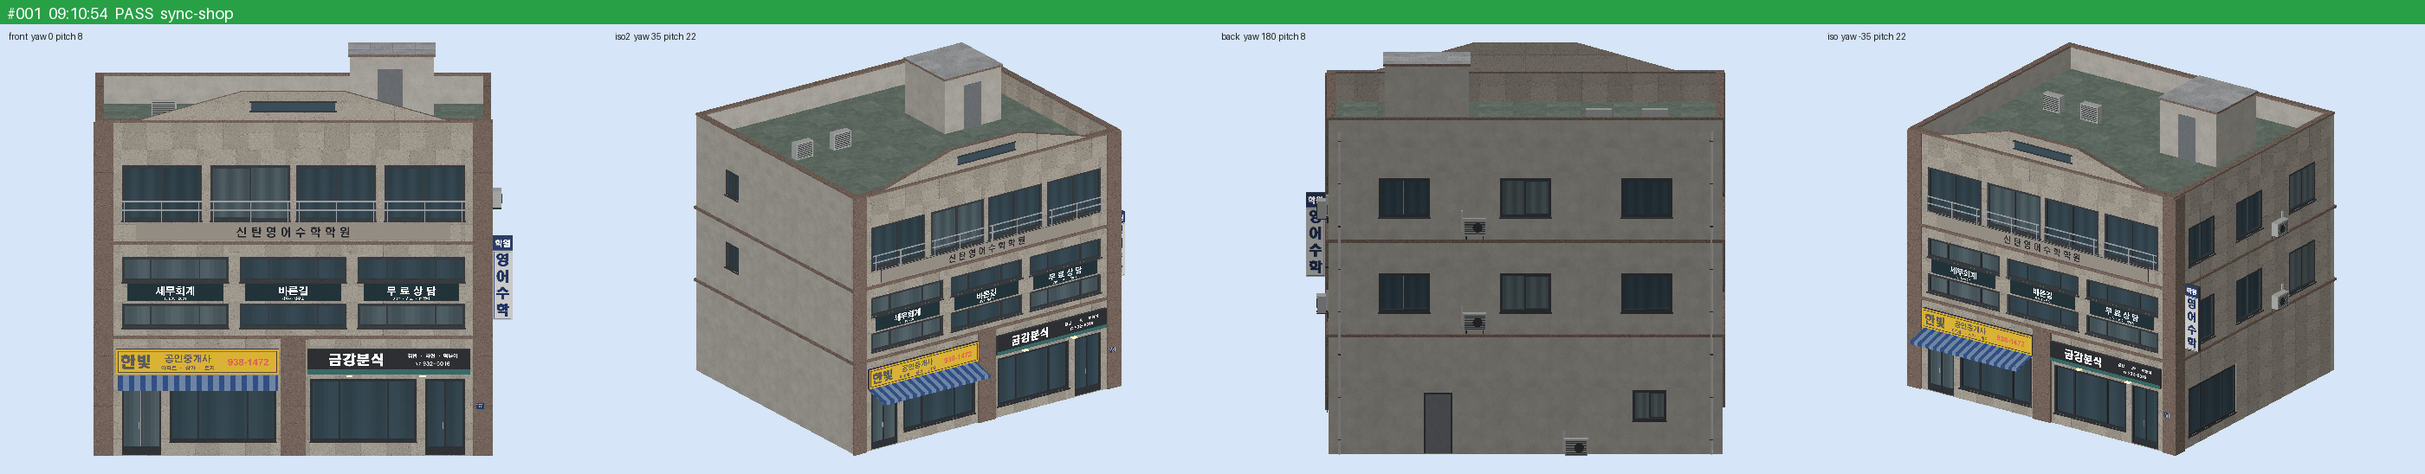
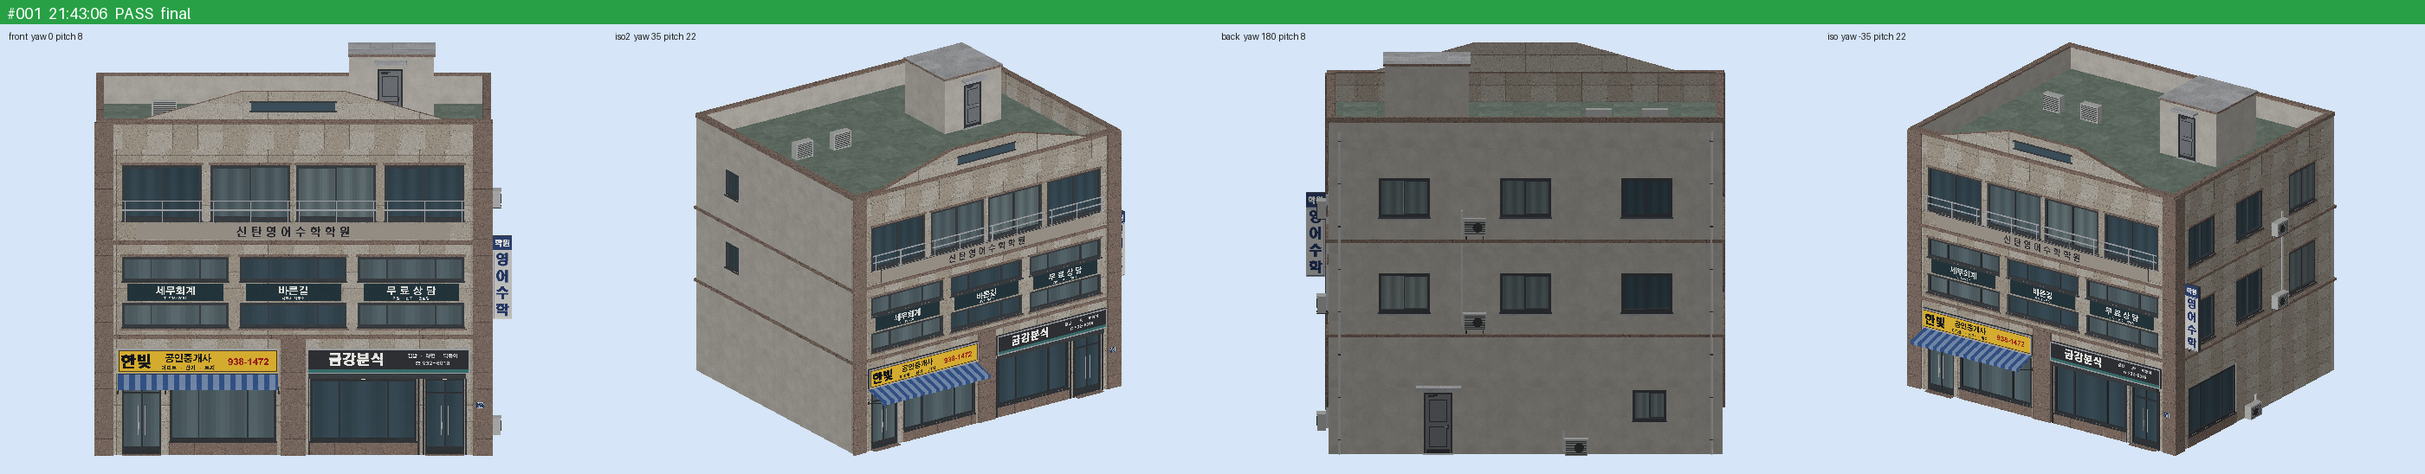
근린상가 01 인게임 피드백 수정: 과발광 하향·디테일·문 보강
- 간판 0.9→0.22, 세로 간판 0.85→0.20, 조명 1.0→0.28, 창 ×0.55 (노란 간판은 바탕만 발광)
- 석재 줄눈·판별 톤/광택 편차 강화
- 셔터 박스·가이드 레일·걸레받이·간판 테·차양 팔, 창대·인방·코핑 띠, 실외기 냉매관
- 유리문 손잡이·가로대, 후면 계단실 철문·차양, 옥탑 철문·차양
- main 12,860 / LOD1 3,910 / LOD2 154(+창102), final·review PASS, 겹침 면·알베도 경고 0

diff --git a/cs2-kit/projects/korean-neighborhood-shop/shop_core.py b/cs2-kit/projects/korean-neighborhood-shop/shop_core.py
@@ -57,6 +57,12 @@ SIGNS = [
 ]
 SIGN_STRIP_H = 1024
 
+# 2026-11-24 인게임: 간판·조명이 블룸으로 하얗게 날아감 -> 발광 배율 대폭 하향 (게임 블룸 기준 노브)
+EMIS_SIGN = 0.22    # 간판 글자 (이전 0.90). 바탕 발광은 이 배율의 약 1/3
+EMIS_VSIGN = 0.20   # 세로 돌출 간판 (이전 0.85)
+EMIS_LAMP = 0.28    # 처마 다운라이트·옥탑등 (이전 1.00)
+EMIS_WIN = 0.55     # 창 실내등 (DC 창 0.58~0.86 -> 0.32~0.47)
+
 
 # ---------------------------------------------------------------------------
 # 간판 그림 (굵은 한글 간판 글꼴, 칸 전체 UV — 규칙 12·19)
@@ -92,9 +98,9 @@ def _draw_signs(W):
         r0, r1 = rows[name]
         return int(r0 * s), int(r1 * s)
 
-    def text(x, y, t, font, fill, glow=0, stroke=0, sc=None):
+    def text(x, y, t, font, fill, glow=None, stroke=0, sc=None):
         d.text((x, y), t, font=font, fill=fill, anchor="mm", stroke_width=stroke, stroke_fill=sc or fill)
-        if glow:
+        if glow is not None:
             de.text((x, y), t, font=font, fill=glow, anchor="mm", stroke_width=stroke)
 
     # 1층 좌: 노란 바탕 + 검정 굵은 글자 + 빨간 전화번호 (사용자 사진 'OK 공인중개사' 문법, 가상 상호)
@@ -102,11 +108,12 @@ def _draw_signs(W):
     d.rectangle([0, y0, W - 1, y1 - 1], fill=(222, 178, 40))
     d.rectangle([int(W * 0.012), y0 + int(h * 0.07), W - 1 - int(W * 0.012), y1 - 1 - int(h * 0.07)],
                 outline=(60, 50, 40), width=max(2, int(h * 0.035)))
-    de.rectangle([0, y0, W - 1, y1 - 1], fill=70)
-    text(W * 0.12, y0 + h * 0.52, "한빛", F(F_HEAD, h * 0.60), (24, 26, 34), glow=230)
-    text(W * 0.44, y0 + h * 0.38, "공인중개사", F(F_GOTH, h * 0.36), (24, 26, 34), glow=230)
-    text(W * 0.44, y0 + h * 0.76, "아파트 · 상가 · 토지", F(F_GOTH, h * 0.20), (40, 40, 44), glow=200)
-    text(W * 0.81, y0 + h * 0.52, "938-1472", F(F_NUM, h * 0.38), (172, 32, 36), glow=230)
+    # 밤: 노란 아크릴 바탕만 내부 조명으로 은은하게, 검정·빨강 글자는 어둡게 남겨 대비 유지 (11-24 과발광 수정)
+    de.rectangle([0, y0, W - 1, y1 - 1], fill=200)
+    text(W * 0.12, y0 + h * 0.52, "한빛", F(F_HEAD, h * 0.60), (24, 26, 34), glow=0)
+    text(W * 0.44, y0 + h * 0.38, "공인중개사", F(F_GOTH, h * 0.36), (24, 26, 34), glow=0)
+    text(W * 0.44, y0 + h * 0.76, "아파트 · 상가 · 토지", F(F_GOTH, h * 0.20), (40, 40, 44), glow=0)
+    text(W * 0.81, y0 + h * 0.52, "938-1472", F(F_NUM, h * 0.38), (172, 32, 36), glow=0)
 
     # 1층 우: 짙은 회색 간판 띠 + 흰·청록 글자 (분식)
     y0, y1 = strip("sg_dark"); h = y1 - y0
@@ -147,7 +154,7 @@ def _signs_painter():
             z = np.load(cache)
             rgb, e = z["rgb"], z["e"]
         ctx.rgb[...] = rgb
-        ctx.emis[...] = e * 0.9
+        ctx.emis[...] = e * EMIS_SIGN
         ctx.grain(amp=1.0, scale_px=2, height=0.02, seed=701)
         ctx.gloss = np.clip(0.50 + 0.03 * DC._var(ctx, 8, 703), 0.42, 0.58)
     return painter
@@ -227,22 +234,41 @@ def _vsign_painter():
             z = np.load(cache)
             rgb, e = z["rgb"], z["e"]
         ctx.rgb[...] = rgb
-        ctx.emis[...] = e * 0.85
+        ctx.emis[...] = e * EMIS_VSIGN
         ctx.gloss = np.clip(0.46 + 0.03 * DC._var(ctx, 8, 257), 0.38, 0.54)
     return painter
 
 
 def _granite_painter(seed, cols=2, rows=2):
-    """석재 판 (0.9 x 0.6 m 줄눈, 반점) — 사용자 사진 베이지 석재, s01 화강석 판."""
+    """석재 판 (0.9 x 0.6 m 줄눈, 반점) — 사용자 사진 베이지 석재, s01 화강석 판.
+    11-24 인게임 '디테일 아쉬움': 줄눈 폭·깊이·명암, 판별 색조·광택 편차, 흑백 반점을 키워 원경에서도 판 결이 읽히게."""
     def painter(ctx):
-        d = ctx.joints(cols=cols, rows=rows, width_m=0.006, depth=0.25, darken=0.18, tone=6, seed=801 + seed)
-        ctx.grain(amp=7.5, scale_px=1, height=0.10, seed=803 + seed)
-        pores = ctx.noise(scale_px=1, amp=1.0, octaves=1, seed=805 + seed) > 2.1
-        ctx.rgb[pores] *= 0.80
+        d = ctx.joints(cols=cols, rows=rows, width_m=0.010, depth=0.60, darken=0.36, tone=8, seed=801 + seed)
+        ctx.grain(amp=9.0, scale_px=1, height=0.14, seed=803 + seed)
+        dark = ctx.noise(scale_px=1, amp=1.0, octaves=1, seed=805 + seed) > 1.9
+        light = ctx.noise(scale_px=1, amp=1.0, octaves=1, seed=806 + seed) > 2.2
+        ctx.rgb[dark] *= 0.74
+        ctx.rgb[light] *= 1.12
+        ctx.height[dark] -= 0.12
+        # 판마다 광택·색 온도 편차 (연마 화강석 판의 로트 차이)
+        x, z = ctx.meters()
+        pid = np.floor(x / (ctx.tile[0] / cols)) * 7.0 + np.floor(z / (ctx.tile[1] / rows)) * 13.0 + ctx.vi * 31.0
+        h = np.sin(pid * 12.9898 + seed * 78.233) * 43758.5453
+        pg = (h - np.floor(h)) - 0.5
+        ctx.rgb[..., 0] *= 1.0 + 0.025 * pg
+        ctx.rgb[..., 2] *= 1.0 - 0.025 * pg
         v = DC._var(ctx, scale_px=10, seed=807 + seed)
         ctx.rgb[...] = np.clip(ctx.rgb, 30, 212)
-        ctx.gloss = np.clip((0.34 + 0.05 * v) * (1.0 - d) + 0.16 * d, 0.14, 0.44)
+        ctx.gloss = np.clip((0.38 + 0.12 * pg + 0.05 * v) * (1.0 - d) + 0.12 * d, 0.10, 0.52)
     return painter
+
+
+def _dim(painter, k):
+    """페인터 결과 발광만 k 배 (DC 창·단색 칸 재사용)."""
+    def p(ctx):
+        painter(ctx)
+        ctx.emis[...] *= k
+    return p
 
 
 def _awning_painter(seed):
@@ -274,7 +300,7 @@ def build_atlas(spec: ShopSpec) -> K.Atlas:
           painter=DC._make_terrace_floor_painter(s + 9))
     win_col = (66, 88, 100)
     a.add("window", color=win_col, px=384, gloss=0.84, emissive=(255, 226, 184),
-          painter=DC._make_window_painter(s + 11))
+          painter=_dim(DC._make_window_painter(s + 11), EMIS_WIN))
     a.add("window_backing", color=win_col, px=32, gloss=0.80)
     a.add("sash", color=(64, 68, 72), px=128, gloss=0.50, painter=DC._solid(1.8, 0.44, 0.56, s + 13))
     a.add("sash_dark", color=(54, 58, 62), px=128, gloss=0.50, painter=DC._solid(1.8, 0.44, 0.56, s + 15))
@@ -290,8 +316,8 @@ def build_atlas(spec: ShopSpec) -> K.Atlas:
     a.add("vsign", px=256, gloss=0.50, emissive=(255, 244, 222), painter=_vsign_painter())
     a.add("address", px=256, gloss=0.48,
           painter=_plate_painter(f"addr_{spec.road_name}_{spec.road_no}", _draw_address(spec.road_name, spec.road_no)))
-    a.add("lamp", color=(244, 224, 182), emissive=(255, 218, 156), px=32, gloss=0.62,
-          painter=DC._solid(1.0, 0.56, 0.66, s + 31))
+    a.add("lamp", color=(232, 220, 196), emissive=(255, 218, 156), px=32, gloss=0.62,
+          painter=_dim(DC._solid(1.0, 0.56, 0.66, s + 31), EMIS_LAMP))
     return a
 
 
@@ -390,6 +416,56 @@ def gable_parapet(mb, zb, zt, stage, xb=5.4, xt=1.8, y0=0.0, y1=WT):
     _rect_facing(mb, [(-xt, y0, zt), (xt, y0, zt), (xt, y1, zt), (-xt, y1, zt)], (0, 0, 1), "stone_brown")
     _rect_facing(mb, [(-xb, y0, zb), (-xt, y0, zt), (-xt, y1, zt), (-xb, y1, zb)], (-1, 0, 1), "stone_brown")
     _rect_facing(mb, [(xb, y0, zb), (xt, y0, zt), (xt, y1, zt), (xb, y1, zb)], (1, 0, 1), "stone_brown")
+
+
+def steel_door_details(mb, axis, c, side, a0, a1, z0, z1, *, leaf_o=-0.10, fw=0.06, handle_right=True):
+    """철제 방화문 디테일: 상·하 패널 요철, 킥플레이트, 레버 손잡이, 도어클로저.
+    (korean-villa/villa_core.add_steel_door_details 와 같은 문법. 병렬 작업 폴더 의존을 피하려 복사)"""
+    la0, la1, lz1 = a0 + fw, a1 - fw, z1 - fw
+    w, h = la1 - la0, lz1 - z0
+    K.axbox(mb, axis, c, side, la0 + 0.015, la1 - 0.015, leaf_o + 0.002, leaf_o + 0.010, z0 + 0.015, z0 + 0.14, "iron_dark")
+    pm = min(0.11, w * 0.15)
+    for pz0, pz1 in ((z0 + 0.22, z0 + h * 0.45), (z0 + h * 0.53, lz1 - 0.18)):
+        K.axbox(mb, axis, c, side, la0 + pm, la1 - pm, leaf_o + 0.002, leaf_o + 0.014, pz0, pz1, "sash_dark")
+        K.axbox(mb, axis, c, side, la0 + pm + 0.028, la1 - pm - 0.028, leaf_o + 0.014, leaf_o + 0.024,
+                pz0 + 0.028, pz1 - 0.028, "door_wood")
+    hx = (la1 - 0.095) if handle_right else (la0 + 0.095)
+    hz = z0 + 0.96
+    K.axbox(mb, axis, c, side, hx - 0.024, hx + 0.024, leaf_o + 0.002, leaf_o + 0.014, hz - 0.085, hz + 0.055, "iron_dark")
+    K.axbox(mb, axis, c, side, hx - 0.011, hx + 0.011, leaf_o + 0.014, leaf_o + 0.052, hz - 0.011, hz + 0.011, "stainless")
+    lx0, lx1 = (hx - 0.115, hx + 0.012) if handle_right else (hx - 0.012, hx + 0.115)
+    K.axbox(mb, axis, c, side, lx0, lx1, leaf_o + 0.044, leaf_o + 0.062, hz - 0.011, hz + 0.011, "stainless")
+    cx0, cx1 = (la0 + 0.08, la0 + 0.30) if handle_right else (la1 - 0.30, la1 - 0.08)
+    K.axbox(mb, axis, c, side, cx0, cx1, leaf_o + 0.002, leaf_o + 0.042, lz1 - 0.095, lz1 - 0.025, "iron_dark")
+    ax0, ax1 = (cx1 - 0.02, cx1 + 0.12) if handle_right else (cx0 - 0.12, cx0 + 0.02)
+    K.axbox(mb, axis, c, side, ax0, ax1, leaf_o + 0.028, leaf_o + 0.046, lz1 - 0.052, lz1 - 0.004, "iron_dark")
+
+
+def door_canopy(mb, axis, c, side, a0, a1, z, depth, stage, lamp=True):
+    """출입문 위 콘크리트 캔틸레버 차양 (물끊기 턱) + 밑면 등."""
+    if stage == 0:
+        KX.ax_bevel(mb, axis, c, side, a0, a1, 0.0, depth, z, z + 0.10, "concrete_light", bevel=0.015)
+        K.axbox(mb, axis, c, side, a0 + 0.01, a1 - 0.01, depth - 0.05, depth - 0.03, z - 0.025, z - 0.002, "concrete_light")
+        if lamp:
+            m = 0.5 * (a0 + a1)
+            K.axbox(mb, axis, c, side, m - 0.09, m + 0.09, 0.14, 0.26, z - 0.022, z - 0.002, "lamp")
+    else:
+        K.axbox(mb, axis, c, side, a0, a1, 0.0, depth, z, z + 0.10, "concrete_light")
+
+
+def _penthouse_door(mb, c, a0, a1, z0, z1, stage):
+    """옥탑 계단실 철문 (-Y 면): 3D 문틀 + 문짝 + 패널·손잡이·클로저 + 문턱 + 차양·등."""
+    if stage == 2:
+        return
+    fw = 0.06
+    K.axbox(mb, "y", c, -1, a0, a1, 0.0, 0.06, z1 - fw, z1, "sash_dark")
+    K.axbox(mb, "y", c, -1, a0, a0 + fw, 0.0, 0.06, z0 + 0.05, z1 - fw, "sash_dark")
+    K.axbox(mb, "y", c, -1, a1 - fw, a1, 0.0, 0.06, z0 + 0.05, z1 - fw, "sash_dark")
+    K.axbox(mb, "y", c, -1, a0 - 0.04, a1 + 0.04, 0.0, 0.10, z0, z0 + 0.05, "concrete_light", skip=("bottom",))
+    K.axbox(mb, "y", c, -1, a0 + fw, a1 - fw, 0.0, 0.034, z0 + 0.05, z1 - fw, "door_wood")
+    if stage == 0:
+        steel_door_details(mb, "y", c, -1, a0, a1, z0 + 0.05, z1, leaf_o=0.034, fw=fw)
+    door_canopy(mb, "y", c, -1, a0 - 0.15, a1 + 0.15, z1 + 0.22, 0.45, stage)
 
 
 # ---------------------------------------------------------------------------
@@ -505,7 +581,7 @@ def build_stage(spec: ShopSpec, a: K.Atlas, stage: int):
     # 옥탑 계단실 # estimated
     mb.box(2.0, 5.0, 6.0, 9.0, z3, z3 + 2.50, "plaster", skip=("bottom",))
     mb.box(1.94, 5.06, 5.94, 9.06, z3 + 2.50, z3 + 2.60, {"default": "stone_brown", "top": "concrete_light"})
-    K.axbox(mb, "y", 6.0, -1, 3.0, 3.9, 0.0, 0.03, z3, z3 + 2.05, "door_wood")
+    _penthouse_door(mb, 6.0, 3.0, 3.9, z3, z3 + 2.05, stage)
 
     # ---------------- 1층 간판·차양 (사용자 사진) ----------------
     ys = -PIER_O                    # 간판 뒷면: 기둥 앞면과 같은 선에서 시작 (판 두께 0.12)
@@ -517,8 +593,11 @@ def build_stage(spec: ShopSpec, a: K.Atlas, stage: int):
     awning_plate(mb, ax0, ax1, stage)
     mb.box(ax0, ax1, -1.10, -1.06, 2.48, 2.57, "awning")   # 판 앞 끝면(2.57~2.62) 아래에 맞대기
     if stage == 0:
-        for xa in (-6.0, -3.4, -0.8):
-            DC.add_oct_tube(mb, (xa, -0.02, 2.70), (xa, -1.00, 2.64), 0.018, "iron_dark", n=6)
+        for xa in (-6.25, -4.55, -0.52):
+            K.axbox(mb, "y", 0.0, -1, xa - 0.035, xa + 0.035, 0.0, 0.03, 2.18, 2.32, "iron_dark")
+            DC.add_oct_tube(mb, (xa, -0.03, 2.25), (xa, -0.98, 2.575), 0.017, "iron_dark", n=6)
+        # 벽 쪽 천막 걸이 레일 (판 윗면 2.90 위 5 mm, 간판 아래 5 mm)
+        K.axbox(mb, "y", 0.0, -1, ax0, ax1, 0.0, 0.05, 2.905, 2.945, "iron_dark")
 
     # ---------------- 2층 유리 간판 띠 (아래·위 유리 사이 불투명 띠 위 글자 판) ----------------
     if stage == 0:
@@ -554,9 +633,6 @@ def build_stage(spec: ShopSpec, a: K.Atlas, stage: int):
 
         # 번호판 (우측 기둥 앞, 규칙 20)
         sign_board(mb, "y", -PIER_O, -1, x1 - 0.48, x1 - 0.21, 1.70, 1.92, 0.014, a.uv_full("address"), region="address")
-        # 1층 점포 처마 조명 (간판 아래 다운라이트)
-        for xl in (2.0, 4.6):
-            mb.box(xl - 0.12, xl + 0.12, -0.20, 0.0, 2.84, 2.90, "lamp")
 
         # 실외기: 측면 2·3층, 후면 각 층, 옥상 2대
         for zf in (z1, z2):
@@ -569,7 +645,104 @@ def build_stage(spec: ShopSpec, a: K.Atlas, stage: int):
         # 우수관 (후면 양 모서리)
         for xd in (x0 + 0.40, x1 - 0.40):
             DC.add_downspout(mb, "y", D, 1, xd, 0.0, z3 + 0.6)
+    _detail_pass(mb, spec, stage, front, right, back)
     return mb, wins
+
+
+def _sill(mb, axis, c, side, a0, a1, ztop, reg, stage, depth=0.07, h=0.06):
+    """창대 (DC 창 하부 림 아래 2 mm). main 은 모따기."""
+    if stage == 0:
+        KX.ax_bevel(mb, axis, c, side, a0 - 0.08, a1 + 0.08, 0.0, depth, ztop - h, ztop, reg, bevel=0.012)
+    else:
+        K.axbox(mb, axis, c, side, a0 - 0.08, a1 + 0.08, 0.0, depth, ztop - h, ztop, reg)
+
+
+def _detail_pass(mb, spec, stage, front, right, back):
+    """11-24 인게임 '디테일 아쉬움' 보강: 상가 전면 (셔터박스·가이드레일·걸레받이·간판 테·문 손잡이/중간대/문턱),
+    상층 창대·인방, 코핑 아래 띠, 측·후면 실외기 배관, 후면 계단실 철문·차양."""
+    W2, D = spec.width / 2.0, spec.depth
+    x0, x1 = -W2, W2
+    z1, z2, zp = spec.z1, spec.z2, spec.z_par
+    main = stage == 0
+
+    # ---- 1층 상가 전면 ----
+    for (a0, a1, hz0, hz1, kind, *_r) in front[0]:
+        if kind == "window":   # 진열창 아래 화강석 걸레받이 (DC 창 림 0.455 아래)
+            K.axbox(mb, "y", 0.0, -1, a0 - 0.02, a1 + 0.02, 0.0, 0.035, 0.0, hz0 - 0.05, "stone_brown", skip=("bottom",))
+        else:                  # 유리문 화강석 문턱
+            K.axbox(mb, "y", 0.0, -1, a0, a1, 0.002, 0.24, 0.0, 0.03, "stone_brown", skip=("bottom",))
+        if a0 > 0.0:           # 우측 점포 셔터 가이드 레일 (창 림 바깥)
+            for r0 in (a0 - 0.08, a1 + 0.035):
+                K.axbox(mb, "y", 0.0, -1, r0, r0 + 0.045, 0.0, 0.06, 0.0, 2.76, "iron_dark", skip=("bottom",))
+        if main and kind == "door_glass":
+            mid, fw = 0.5 * (a0 + a1), 0.075
+            # 중간 가로대 (중앙 세로살과 맞대기)
+            for t0, t1 in ((a0 + fw, mid - 0.028), (mid + 0.028, a1 - fw)):
+                K.axbox(mb, "y", 0.0, -1, t0, t1, -0.125, -0.045, 2.20, 2.255, "sash_dark")
+            # 긴 스테인리스 당김 손잡이 + 받침
+            for hx in (mid - 0.12, mid + 0.12):
+                K.axbox(mb, "y", 0.0, -1, hx - 0.0125, hx + 0.0125, -0.030, -0.006, 0.72, 1.78, "stainless")
+                for hz in (0.80, 1.70):
+                    K.axbox(mb, "y", 0.0, -1, hx - 0.010, hx + 0.010, -0.045, -0.030, hz - 0.010, hz + 0.010, "stainless")
+    # 우측 점포 셔터 박스 (창·문 머리 2.75 위, 간판 2.95 아래) + 밑면 등
+    sb0, sb1 = 0.55, 6.15
+    if main:
+        KX.ax_bevel(mb, "y", 0.0, -1, sb0, sb1, 0.0, 0.20, 2.76, 2.94, "sash", bevel=0.012)
+        for xl in (2.5, 5.4):
+            K.axbox(mb, "y", 0.0, -1, xl - 0.08, xl + 0.08, 0.06, 0.14, 2.745, 2.758, "lamp")
+    else:
+        K.axbox(mb, "y", 0.0, -1, sb0, sb1, 0.0, 0.20, 2.76, 2.94, "sash")
+    # 1층 간판 테 (판 앞면 둘레 몰딩 -> 상자 간판 입체감)
+    if main:
+        for g0, g1 in ((-6.30, -0.50), (0.50, 6.30)):
+            o0, o1, e = 0.14, 0.165, 0.045
+            K.axbox(mb, "y", 0.0, -1, g0, g1, o0, o1, 2.95, 2.95 + e, "stainless")
+            K.axbox(mb, "y", 0.0, -1, g0, g1, o0, o1, 3.85 - e, 3.85, "stainless")
+            K.axbox(mb, "y", 0.0, -1, g0, g0 + e, o0, o1, 2.95 + e, 3.85 - e, "stainless")
+            K.axbox(mb, "y", 0.0, -1, g1 - e, g1, o0, o1, 2.95 + e, 3.85 - e, "stainless")
+
+    # ---- 상층 창대·인방 ----
+    for (h0, h1, hz0, hz1, *_r) in front[1]:
+        if hz0 < z1 + 1.0:      # 2층 아래 유리: 창대
+            _sill(mb, "y", 0.0, -1, h0, h1, hz0 - 0.047, "stone_brown", stage)
+        else:                   # 2층 위 유리: 인방 (아래는 유리 간판)
+            K.axbox(mb, "y", 0.0, -1, h0 - 0.06, h1 + 0.06, 0.0, 0.04, hz1 + 0.005, hz1 + 0.085, "stone_brown")
+    for (h0, h1, hz0, hz1, *_r) in front[2]:   # 3층 띠창: 인방 (창대 자리는 난간 팔·석재 글자 띠)
+        K.axbox(mb, "y", 0.0, -1, h0 - 0.06, h1 + 0.06, 0.0, 0.04, hz1 + 0.005, hz1 + 0.085, "stone_brown")
+    for f in (1, 2):
+        for (h0, h1, hz0, hz1, *_r) in right[f]:
+            _sill(mb, "x", x1, 1, h0, h1, hz0 - 0.047, "stone_brown", stage)
+            K.axbox(mb, "x", x1, 1, h0 - 0.06, h1 + 0.06, 0.0, 0.04, hz1 + 0.005, hz1 + 0.085, "stone_brown")
+        for (h0, h1, hz0, hz1, *_r) in back[f]:
+            _sill(mb, "y", D, 1, h0, h1, hz0 - 0.047, "concrete_light", stage)
+    # 측면 1층 진열창 걸레받이
+    for (a0, a1, hz0, hz1, *_r) in right[0]:
+        K.axbox(mb, "x", x1, 1, a0 - 0.02, a1 + 0.02, 0.0, 0.035, 0.0, hz0 - 0.05, "stone_brown", skip=("bottom",))
+
+    # ---- 코핑 아래 2단 띠 (모서리: 후면 띠가 감싸고 측면 띠는 맞댐) ----
+    zb0, ob = zp - 0.10, 0.025
+    K.axbox(mb, "y", 0.0, -1, x0 + 0.60, x1 - 0.60, 0.0, ob, zb0, zp, "stone_brown")
+    mb.box(x0 - ob, x1 + ob, D, D + ob, zb0, zp, "stone_brown")
+    mb.box(x1, x1 + ob, 0.602, D, zb0, zp, "stone_brown")
+    mb.box(x0 - ob, x0, 0.002, D, zb0, zp, "stone_brown")
+
+    # ---- 후면 계단실 철문 + 차양 ----
+    for (a0, a1, hz0, hz1, kind, *_r) in back[0]:
+        if kind == "door_solid":
+            if main:
+                steel_door_details(mb, "y", D, 1, a0 + 0.06, a1 - 0.06, hz0, hz1 - 0.06, leaf_o=-0.10, fw=0.0,
+                                   handle_right=False)
+                K.axbox(mb, "y", D, 1, a0 - 0.03, a1 + 0.03, 0.002, 0.24, 0.0, 0.03, "concrete_light", skip=("bottom",))
+            door_canopy(mb, "y", D, 1, a0 - 0.30, a1 + 0.30, hz1 + 0.18, 0.70, stage)
+
+    if not main:
+        return
+    # ---- 실외기 추가 (측면 1층) + 냉매관 입상 덕트 (석재 띠에서 끊어 맞댐) ----
+    DC.add_ac_unit(mb, "x", x1, 1, 5.60, 0.0, stage)
+    for axis, c, side, pos in (("x", x1, 1, 7.60), ("y", D, 1, 1.80)):
+        d0, d1 = pos + 0.41, pos + 0.49
+        for za, zb in ((z1 + 0.30 + 0.85, z2), (z2 + 0.12, z2 + 0.30 + 0.10)):
+            K.axbox(mb, axis, c, side, d0, d1, 0.0, 0.07, za, zb, "pipe_white")
 
 
 def build_and_export(spec: ShopSpec, out_root=None):

diff --git a/cs2-kit/projects/korean-neighborhood-shop/shape_notes.md b/cs2-kit/projects/korean-neighborhood-shop/shape_notes.md
@@ -43,3 +43,19 @@
 - main 9,580 / LOD1 3,440 / LOD2 154 + 창 102 = 256. photo/tiles 자동 대조는 NOT_APPLICABLE이며 사진 실측 복제가 아닌 대표형이다.
 - 키트 낮은 pitch 확대 직교 렌더로 부재를 검토했다. 실제 게임 원근 시점·스케일·상업 Growable 등록·야간·차양과 간판 그림자·LOD 전환은 미확인이다. 레벨 세트는 아직 제작하지 않았다.
 - Desktop의 output·`cs2-import/SintanjinCornerShop01_L1_2x2` 21개 FBX/PNG·asset-viewer 동기화 완료.
+
+## 2026-11-28 인게임 피드백(11-24) 수정 — 과발광·디테일·문
+- 인게임 증상: 노란 간판 전체·2층 유리 글자·세로 간판·처마 다운라이트가 블룸으로 하얗게 날아감. 원인: 간판 발광 배율 0.9, 세로 간판 0.85, 조명 1.0(키트 기본 ctx.emis=1).
+  노란 간판은 검정 글자 쪽이 발광해서 밤에 글자가 사라졌다.
+- 발광 노브(`shop_core.py` 상단): EMIS_SIGN 0.22, EMIS_VSIGN 0.20, EMIS_LAMP 0.28, EMIS_WIN 0.55(창 0.58~0.86→0.32~0.47).
+  노란 간판은 바탕만 발광(200/255×0.22≈0.17)하고 검정·빨강 글자는 0이다. 백라이트 아크릴 간판처럼 보인다. 인게임 블룸 정도는 미확인이며 다시 강하면 이 노브만 낮춘다.
+- 석재: 줄눈 6→10 mm, 깊이 0.25→0.60, 명암 0.18→0.36, 판별 톤 6→8, 판별 광택 ±0.06·색온도 편차, 흑백 반점.
+- 1층 상가: 진열창 아래 화강석 걸레받이, 유리문 문턱, 우측 점포 셔터 박스(2.76~2.94)와 가이드 레일, 셔터 박스 밑면 소형 등(기존 돌출 다운라이트 대체), 1층 간판 둘레 금속 테.
+  차양은 벽 브래킷과 경사 접이 팔 3개(벽면 위)와 벽 쪽 걸이 레일로 바꿨다.
+- 문: 유리문에 중간 가로대와 긴 스테인리스 당김 손잡이(받침 포함)를 달았다. 후면 계단실 철문에는 패널 요철·킥플레이트·레버·도어클로저·문턱·콘크리트 차양과 등을 달았다.
+  옥탑문은 평판에서 3D 문틀·문짝·철문 디테일·문턱·차양·등으로 바꿨다. 철문 디테일은 빌라 B01 문법을 `steel_door_details`로 복사했다(병렬 작업 폴더 의존 회피).
+- 상층: 2층 아래 유리와 측면 2·3층에 화강석 창대(모따기)를, 후면 2·3층에 콘크리트 창대를 넣었다. 2층 위 유리·3층 띠창·측면 창에는 인방을 넣었다.
+  코핑 아래에 2단 띠를 둘렀다(후면 띠가 모서리를 감싼다). 측면 1층에 실외기를 추가했고, 측·후면 실외기 냉매관 입상 덕트는 석재 띠에서 끊어 맞댔다.
+- 결과: main 9,580→12,860 / LOD1 3,440→3,910 / LOD2 154 + 창 102×2 = 358. COPLANAR·WIN_BLOCKED·알베도 경고 0, final·review PASS.
+- 전후 비교(Desktop `previews/`, gitignore 대상): `cmp_1124fix_day.png`, `cmp_1124fix_night.png`, `cmp_1124fix_eye_day.png`, `cmp_1124fix_eye_night.png`, `doors_1124fix.png`, `back_door_1124fix.png`.
+  근접은 키트의 낮은 pitch 확대 직교 렌더이고, 1.6 m 원근 카메라 실측은 아니다.

diff --git a/HandOff_HISTORY.md b/HandOff_HISTORY.md
@@ -53,3 +53,4 @@
 | 2026-11-23 | Claude (총괄·교차검토) · Codex (재빌드) | 최신화·뷰어 동기화 | SintanjinHouse02, VillaA01, VillaB01, CornerShop01, Tollgate | 원격 19커밋 fast-forward 후 로컬 FBX 없던 4종과 간판 발광 제거 전 FBX였던 톨게이트를 final 재빌드(자동 검사 통과, 알베도 경고 0). 총괄 근접 렌더로 4종 미리보기가 기존 커밋본과 라벨 외 픽셀 동일, 톨게이트 타이틀 간판 야간 비발광 확인 후 review PASS. cs2-import 5건·뷰어 29개 해시 일치, 뷰어에서 B01·단독02 표시 확인. 인게임 미확인. |
 | 2026-11-24 | Claude (총괄·교차검토) · Antigravity gemini-4-neon (구현) | 퀄리티 업 2차 | SintanjinHouse01·02, VillaA01·B01 | 단독 공용 코어에 월드 좌표 연속 벽돌 UV·야간 발광 보강(01 12,988/02 9,628 tris). A01 수직 계단실 유리 띠·옥상 파라펫·물탱크·옥탑문·필로티 보조문·공동현관(main 14,782→16,832), B01 옥탑·환기팬·배관·안테나·무이음 방수 바닥·계단실 층별 점등·인터폰·보조문·카스토퍼 동선(main 18,794→20,768). final PASS, 겹침 면·알베도 경고 0, 총괄 근접·야간 review PASS. 4종 cs2-import·뷰어 동기화. B01 필로티 안쪽 검은 벽은 뷰어 확인 대기, 인게임 미확인. |
 | 2026-11-24 | Codex (CitiesSimulator) | 인게임 사용자 검증 | 1~3절 | 근린상가 01·빌라 B01·단독주택 01·02와 문 품질에 대한 사용자 피드백을 3절에 기록했다. 신탄진IC 톨게이트 차량 통과는 사용자 확인으로 기록하고, 도로 연결·배치 방법·야간 조명은 확인 목록에 남겼다. |
+| 2026-11-28 | Claude Opus 5.5 (Orca 워커) | 인게임 피드백 수정 | 2절 근린상가 01 | 과발광 수정(간판 0.9→0.22, 세로 간판 0.85→0.20, 조명 1.0→0.28, 창 ×0.55, 노란 간판 바탕만 발광), 석재 줄눈·판 편차 강화, 상가 전면·창대·인방·코핑·실외기 배관·문 3종 보강. main 12,860/LOD1 3,910/LOD2 154(+창102), final·review PASS, 겹침 면·알베도 경고 0. 인게임 미확인. |

diff --git a/HandOff.md b/HandOff.md
@@ -78,6 +78,7 @@
 ### 한국형 근린상가 01
 - `SintanjinCornerShop01_L1_2x2`: 3층+옥탑·박공 파라펫, 석재 외벽·후퇴 창호·노란 간판·파란 차양·가상 상호. 11-09 옛 모델 파일은 복구 실패했으나 세션의 스크립트와 사용자 사진을 복구해 마지막 방향을 키트로 재구성했다.
 - 2026-11-22: Claude 구현 후 Codex 총괄 final 재실행·근접 낮밤 교차 review PASS. 세로 간판 비율·발광은 교차 검토 지적으로 수정했다. main 9,580/LOD1 3,440/LOD2 154(+창 102), 겹침 면·알베도 경고 0, `cs2-import`·뷰어 동기화 완료.
+- 2026-11-28: 11-24 인게임 피드백 수정. 간판·조명·창 발광을 크게 낮췄고(노브 `EMIS_*`, 노란 간판은 바탕만 발광) 석재 줄눈·판 편차를 강화했다. 1층 셔터 박스·가이드 레일·걸레받이·간판 테·차양 팔, 창대·인방·코핑 띠, 실외기·냉매관을 보강했다. 유리문 손잡이·가로대, 후면 계단실 철문·차양, 옥탑 철문·차양을 개선했다. main 12,860/LOD1 3,910/LOD2 154(+창102), final·review PASS, 겹침 면·알베도 경고 0. 발광 세기는 인게임 미확인.
 - 사진 실측 복제가 아닌 대표형(치수 추정), 상업 Growable 등록·입주·야간 조명 동작·LOD 전환은 인게임 미확인. 레벨 1~5 세트 미제작.
 
 ---
